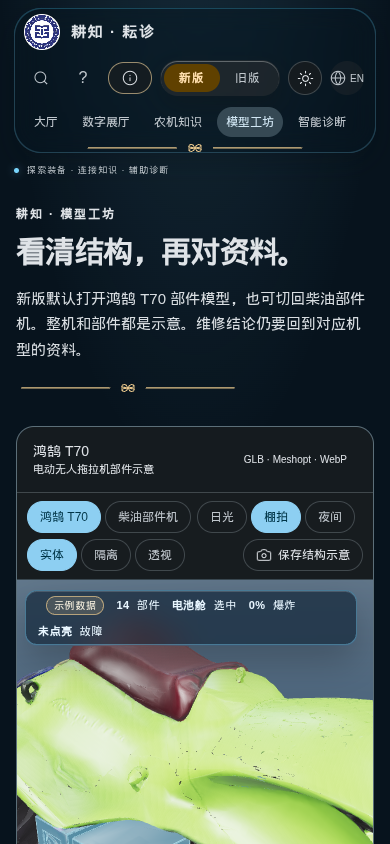
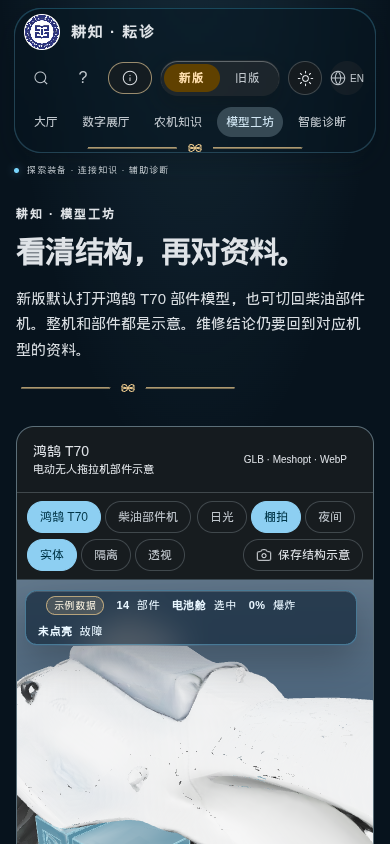
fix(studio): keep Honghu T70 photo colors in the glass polish
Use the COLOR_0-stripped part GLBs and turn vertex colors off on cloned materials, matching the T70 studio branch. Stays on unreleased 3.7.7.

Changed region(s): [[0.0308, 0.7393, 0.9538, 1.0]]

diff --git a/tests/parts-tractor.test.ts b/tests/parts-tractor.test.ts
@@ -147,6 +147,32 @@ test('鸿鹄 T70 的 Meshopt 节点保留量化缩放，爆炸方向与部件表
   }
 });
 
+test('部件材质克隆关闭顶点色，贴图不会被 COLOR_0 盖住', () => {
+  const root = new THREE.Group();
+  const source = new THREE.MeshStandardMaterial({ color: 0xffffff });
+  source.vertexColors = true;
+  const mesh = new THREE.Mesh(new THREE.BoxGeometry(1, 1, 1), source);
+  mesh.name = 'body_shell';
+  mesh.userData = { part_id: 'body_shell', label_zh: '车身外壳', explode_dir: [0, 0.4, 0] };
+  const count = mesh.geometry.getAttribute('position').count;
+  const colors = new Float32Array(count * 3);
+  colors.fill(0.2);
+  mesh.geometry.setAttribute('color', new THREE.BufferAttribute(colors, 3));
+  root.add(mesh);
+  const prepared = preparePartsRoot(root, name => catalogByName(name, 't70'));
+  const paint = prepared.records[0]?.slots[0]?.paint;
+  assert.ok(paint);
+  assert.equal(paint.vertexColors, false);
+  assert.equal(source.vertexColors, true);
+  const json = glbDocument('../public/models/t70-parts/t70_parts_meshopt.glb');
+  for (const meshDef of json.meshes) {
+    for (const primitive of meshDef.primitives) {
+      assert.equal(primitive.attributes.COLOR_0, undefined);
+    }
+  }
+  prepared.dispose();
+});
+
 test('爆炸位移加在节点平移上，量化缩放保持不动', () => {
   const root = new THREE.Group();
   const mesh = new THREE.Mesh(new THREE.BoxGeometry(1, 1, 1), new THREE.MeshStandardMaterial());
@@ -180,8 +206,10 @@ type GltfNode = {
   extras?: { part_id?: string; label_zh?: string; explode_dir?: number[] };
 };
 
-function glbDocument(relative = '../public/models/tractor-parts/tractor_parts.glb'): { nodes: GltfNode[] } {
+type GltfPrimitive = { attributes: { COLOR_0?: number } };
+
+function glbDocument(relative = '../public/models/tractor-parts/tractor_parts.glb'): { nodes: GltfNode[]; meshes: { primitives: GltfPrimitive[] }[] } {
   const bytes = readFileSync(new URL(relative, import.meta.url));
   const length = bytes.readUInt32LE(12);
-  return JSON.parse(bytes.subarray(20, 20 + length).toString('utf8')) as { nodes: GltfNode[] };
+  return JSON.parse(bytes.subarray(20, 20 + length).toString('utf8')) as { nodes: GltfNode[]; meshes: { primitives: GltfPrimitive[] }[] };
 }

diff --git a/src/components/parts-tractor/load-parts-tractor.ts b/src/components/parts-tractor/load-parts-tractor.ts
@@ -73,7 +73,12 @@ function prepareMesh(mesh: THREE.Mesh, originals: Set<THREE.Material>, edgesMate
   const list = (Array.isArray(source) ? source : [source]).filter(Boolean);
   const clones = list.map(material => {
     originals.add(material);
-    return material.clone();
+    const clone = material.clone();
+    // Hunyuan part splits wrote COLOR_0 over the photo albedo. Clones ignore vertex
+    // colors so a returning attribute cannot repaint the shell; the texture stays in front.
+    const paint = clone as THREE.MeshStandardMaterial;
+    if (paint.isMeshStandardMaterial) paint.vertexColors = false;
+    return clone;
   });
   mesh.material = Array.isArray(source) ? clones : clones[0];
   mesh.castShadow = true;

diff --git a/CHANGELOG.md b/CHANGELOG.md
@@ -11,7 +11,8 @@
 - 新版轻抛光，不改路由、接口和模型几何。外壳与园区顶栏更薄、磨砂更透；导航高亮和状态点统一到枢纽青，深色用展厅青。「新版 / 旧版」金胶囊、快速前往和底部状态条保留。换页时主内容淡入，减少动态时不播放。园区开场镜头仍按原来的片头。
 - 模型工坊把部件树和故障示意收成盖在三维上的玻璃条。视口顶部是示例概览，底部是示例记录。点选部件后详情从右侧滑出。爆炸、故障示意、鸿鹄 T70 与柴油部件机切换、Meshopt 节点位移保持原样。窄屏改为上下排列。
 - 数字展厅的分区标签改成横向玻璃胶囊，底部概况收成更透的玻璃带。A–D 同步、抽屉、示例数据和镜头不变。说明见 `docs/design/2026-10-21-new-version-ui.md`。
-- 更新类型：maintenance；批次：ui-20261021-glass-polish。验证：本地（Node 22.23.3）`npm run verify` 通过，测试 428 项，426 通过、2 项跳过、0 失败；前后端类型检查、lint 与构建通过；版本检查 3.7.7 一致。浏览器（无头 Chrome、SwiftShader，深色）核对：1440 工坊整机与电池舱抽屉、展厅玻璃带、园区顶栏，以及 390 宽工坊（文档宽 390，无横向溢出）。本提交未部署。
+- 同步鸿鹄 T70 实车照片颜色：采用已去掉 `COLOR_0` 的部件 GLB，外壳为珠光白、前面罩为黑色。工坊克隆 `MeshStandardMaterial` 时把 `vertexColors` 设为 false，顶点色再出现也不会重新涂色。与 `cursor/t70-studio-88e4` 的颜色修复同轮并入本版，不另开批次。
+- 更新类型：maintenance；批次：ui-20261021-glass-polish。验证：本地（Node 22.23.3）`npm run verify` 通过，测试 429 项，427 通过、2 项跳过、0 失败（含顶点色关闭，且 T70 网格不含 `COLOR_0`）；前后端类型检查、lint 与构建通过；版本检查 3.7.7 一致。浏览器（无头 Chrome、SwiftShader，深色）核对：1440 工坊整机与电池舱抽屉为珠光白外壳、黑色前面罩，展厅玻璃带、园区顶栏，以及 390 宽工坊（文档宽 390，无横向溢出）。本提交未部署。
 
 ## 3.7.6 — 2026-10-21
 
